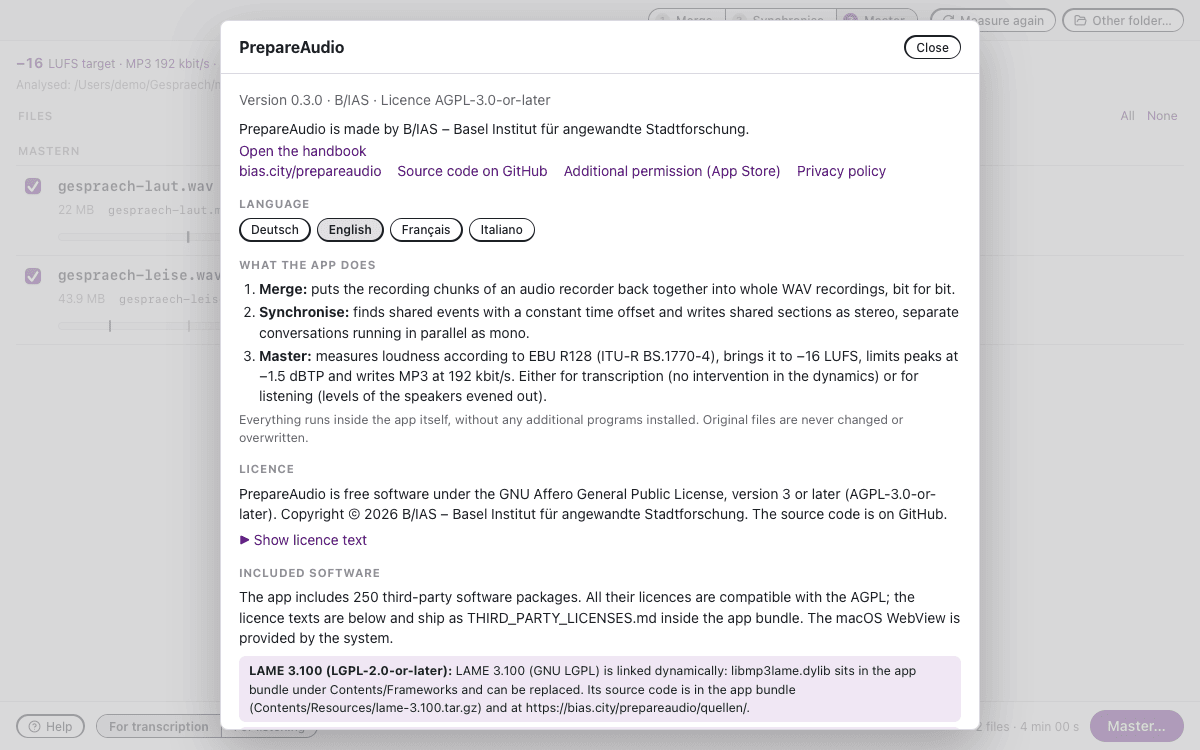
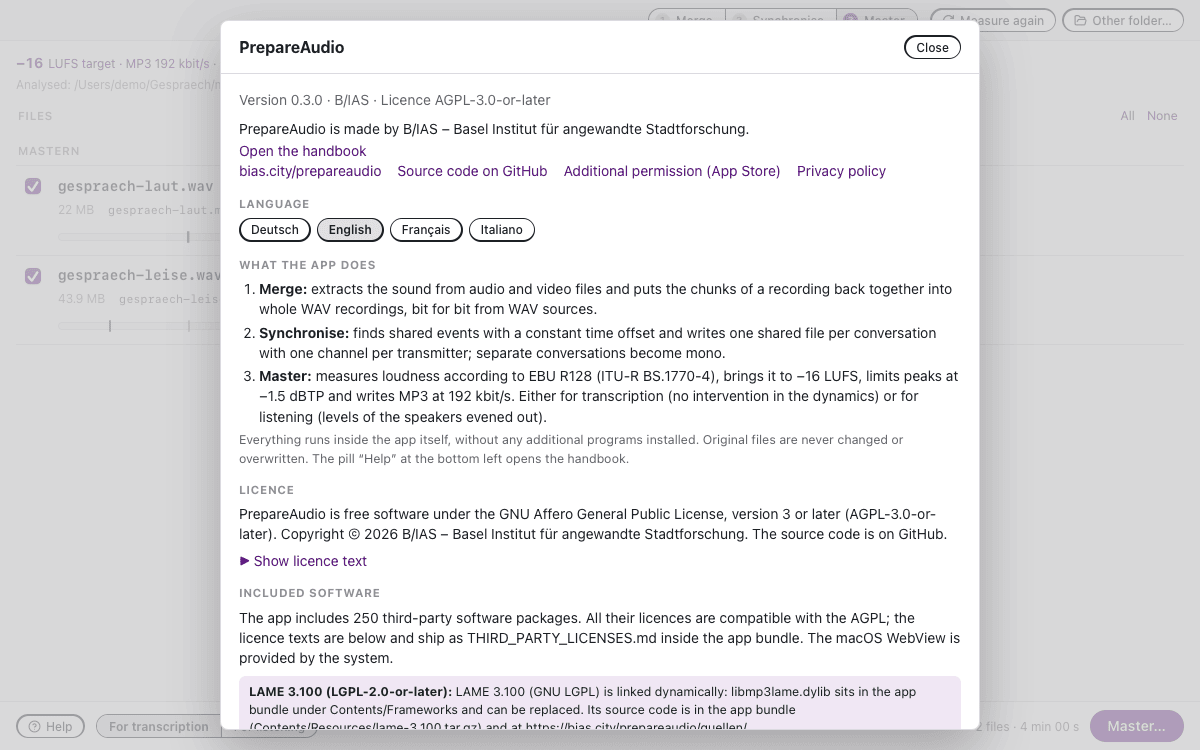
Info-Feld: die drei Schritte auf den Stand von 0.3.0 gebracht (alle Formate, gemeinsame Datei je Sender, Hinweis aufs Handbuch); Store- und Website-Bilder neu
Claude-Session: https://claude.ai/code/session_01VhoDoDyamQwRzZ3dqypMTk

Changed region(s): [[0.185, 0.368, 0.8017, 0.9813]]

diff --git a/ui/i18n/common.js b/ui/i18n/common.js
@@ -160,16 +160,16 @@ I18N.add({
   /* ---------- info modal (static parts) ---------- */
   'page.info.what': { de: 'Was die App macht', en: 'What the app does', fr: 'Ce que fait l’app', it: 'Cosa fa l’app' },
   'page.info.step1': {
-    de: '<b>Zusammenfügen:</b> setzt die Aufnahme-Teile eines Audiorecorders bitgenau zu ganzen WAV-Aufnahmen zusammen.',
-    en: '<b>Merge:</b> puts the recording chunks of an audio recorder back together into whole WAV recordings, bit for bit.',
-    fr: '<b>Assembler :</b> réassemble au bit près les fragments d’enregistrement d’un enregistreur audio en enregistrements WAV complets.',
-    it: '<b>Unire:</b> ricompone bit per bit i frammenti di registrazione di un registratore audio in registrazioni WAV complete.',
+    de: '<b>Zusammenfügen:</b> zieht den Ton aus Audio- und Videodateien heraus und setzt die Teile einer Aufnahme wieder zu ganzen WAV-Aufnahmen zusammen, aus WAV-Quellen bitgenau.',
+    en: '<b>Merge:</b> extracts the sound from audio and video files and puts the chunks of a recording back together into whole WAV recordings, bit for bit from WAV sources.',
+    fr: '<b>Assembler :</b> extrait le son des fichiers audio et vidéo et réunit les fragments d’un enregistrement en enregistrements WAV complets, bit à bit depuis des sources WAV.',
+    it: '<b>Unire:</b> estrae il suono da file audio e video e ricompone i frammenti di una registrazione in registrazioni WAV complete, bit per bit dalle sorgenti WAV.',
   },
   'page.info.step2': {
-    de: '<b>Synchronisieren:</b> findet gemeinsame Ereignisse mit gleichbleibendem Zeitversatz und schreibt gemeinsame Abschnitte als Stereo, parallele verschiedene Gespräche als Mono.',
-    en: '<b>Synchronise:</b> finds shared events with a constant time offset and writes shared sections as stereo, separate conversations running in parallel as mono.',
-    fr: '<b>Synchroniser :</b> trouve des événements communs avec un décalage constant et écrit les passages communs en stéréo, les conversations distinctes en parallèle en mono.',
-    it: '<b>Sincronizzare:</b> trova eventi comuni con uno sfasamento costante e scrive le parti comuni in stereo, le conversazioni diverse in parallelo in mono.',
+    de: '<b>Synchronisieren:</b> findet gemeinsame Ereignisse mit gleichbleibendem Zeitversatz und schreibt je Gespräch eine gemeinsame Datei mit einem Kanal je Sender, getrennte Gespräche als Mono.',
+    en: '<b>Synchronise:</b> finds shared events with a constant time offset and writes one shared file per conversation with one channel per transmitter; separate conversations become mono.',
+    fr: '<b>Synchroniser :</b> trouve les événements communs à décalage constant et écrit un fichier commun par conversation, avec un canal par émetteur ; les conversations séparées deviennent mono.',
+    it: '<b>Sincronizzare:</b> trova gli eventi comuni con scarto temporale costante e scrive un file comune per conversazione, con un canale per trasmettitore; le conversazioni separate diventano mono.',
   },
   'page.info.step3': {
     de: '<b>Mastern:</b> misst die Lautheit nach EBU R128 (ITU-R BS.1770-4), bringt sie auf −16 LUFS, begrenzt Spitzen bei −1,5 dBTP und schreibt MP3 mit 192 kbit/s. Wahlweise für die Transkription (ohne Eingriff in die Dynamik) oder fürs Hören (Lautstärken der Sprechenden ausgeglichen).',
@@ -178,10 +178,10 @@ I18N.add({
     it: '<b>Masterizzare:</b> misura la loudness secondo EBU R128 (ITU-R BS.1770-4), la porta a −16 LUFS, limita i picchi a −1,5 dBTP e scrive MP3 a 192 kbit/s. A scelta per la trascrizione (nessun intervento sulla dinamica) o per l’ascolto (livelli di chi parla pareggiati).',
   },
   'page.info.selfContained': {
-    de: 'Alles läuft in der App selbst, ohne installierte Zusatzprogramme. Originaldateien werden nie verändert oder überschrieben.',
-    en: 'Everything runs inside the app itself, without any additional programs installed. Original files are never changed or overwritten.',
-    fr: 'Tout s’exécute dans l’app elle-même, sans programme supplémentaire installé. Les fichiers originaux ne sont jamais modifiés ni écrasés.',
-    it: 'Tutto avviene nell’app stessa, senza programmi aggiuntivi installati. I file originali non vengono mai modificati né sovrascritti.',
+    de: 'Alles läuft in der App selbst, ohne installierte Zusatzprogramme. Originaldateien werden nie verändert oder überschrieben. Das Handbuch öffnet die Pille «Hilfe» unten links.',
+    en: 'Everything runs inside the app itself, without any additional programs installed. Original files are never changed or overwritten. The pill “Help” at the bottom left opens the handbook.',
+    fr: 'Tout se passe dans l’app elle-même, sans programme supplémentaire installé. Les fichiers d’origine ne sont jamais modifiés ni écrasés. Le bouton « Aide » en bas à gauche ouvre le manuel.',
+    it: 'Tutto avviene nell’app stessa, senza programmi aggiuntivi installati. I file originali non vengono mai modificati o sovrascritti. Il pulsante «Aiuto» in basso a sinistra apre il manuale.',
   },
   'page.info.licence': { de: 'Lizenz', en: 'Licence', fr: 'Licence', it: 'Licenza' },
   /* Placeholder until info.js fills #info-license with version details. */

diff --git a/CHANGELOG.md b/CHANGELOG.md
@@ -12,6 +12,9 @@ notarisiertes DMG. Pläne: `docs/PLAN-0.4-PIPELINE.md`, `docs/PLAN-APPSTORE.md`.
 
 ### Behoben
 
+- Das Info-Feld beschrieb die ersten beiden Schritte noch in der alten Fassung: Es nennt jetzt
+  alle Formate samt Video und die gemeinsame Datei mit einem Kanal je Sender.
+
 - **Kein Ordner im Ordner mehr:** Heisst der gewählte Ordner schon `tracks`, `sync` oder
   `master` — gleich wie geschrieben —, schreibt die App direkt hinein statt einen weiteren
   Unterordner anzulegen.
